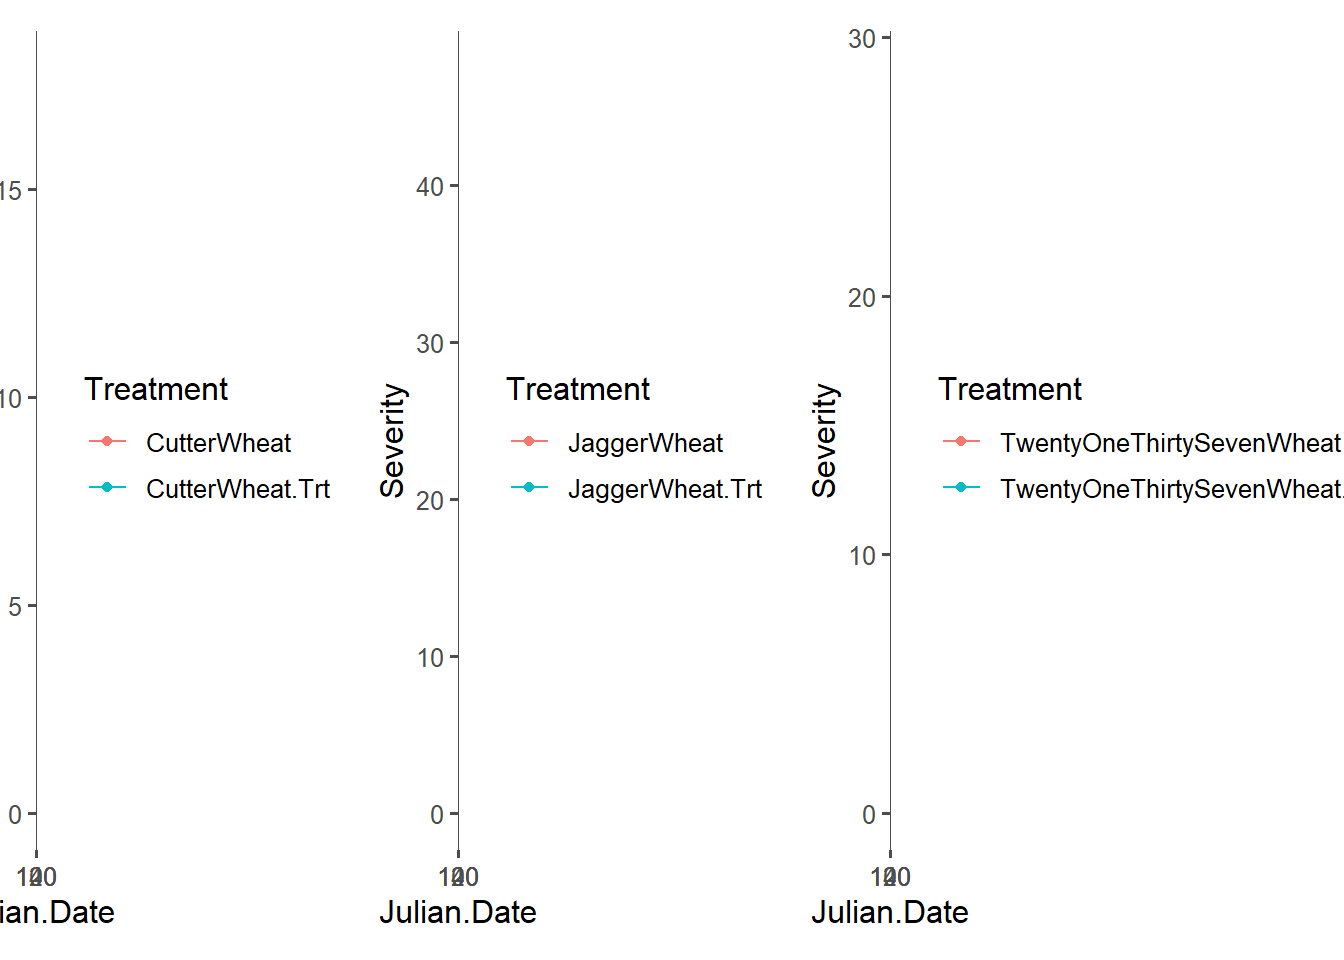
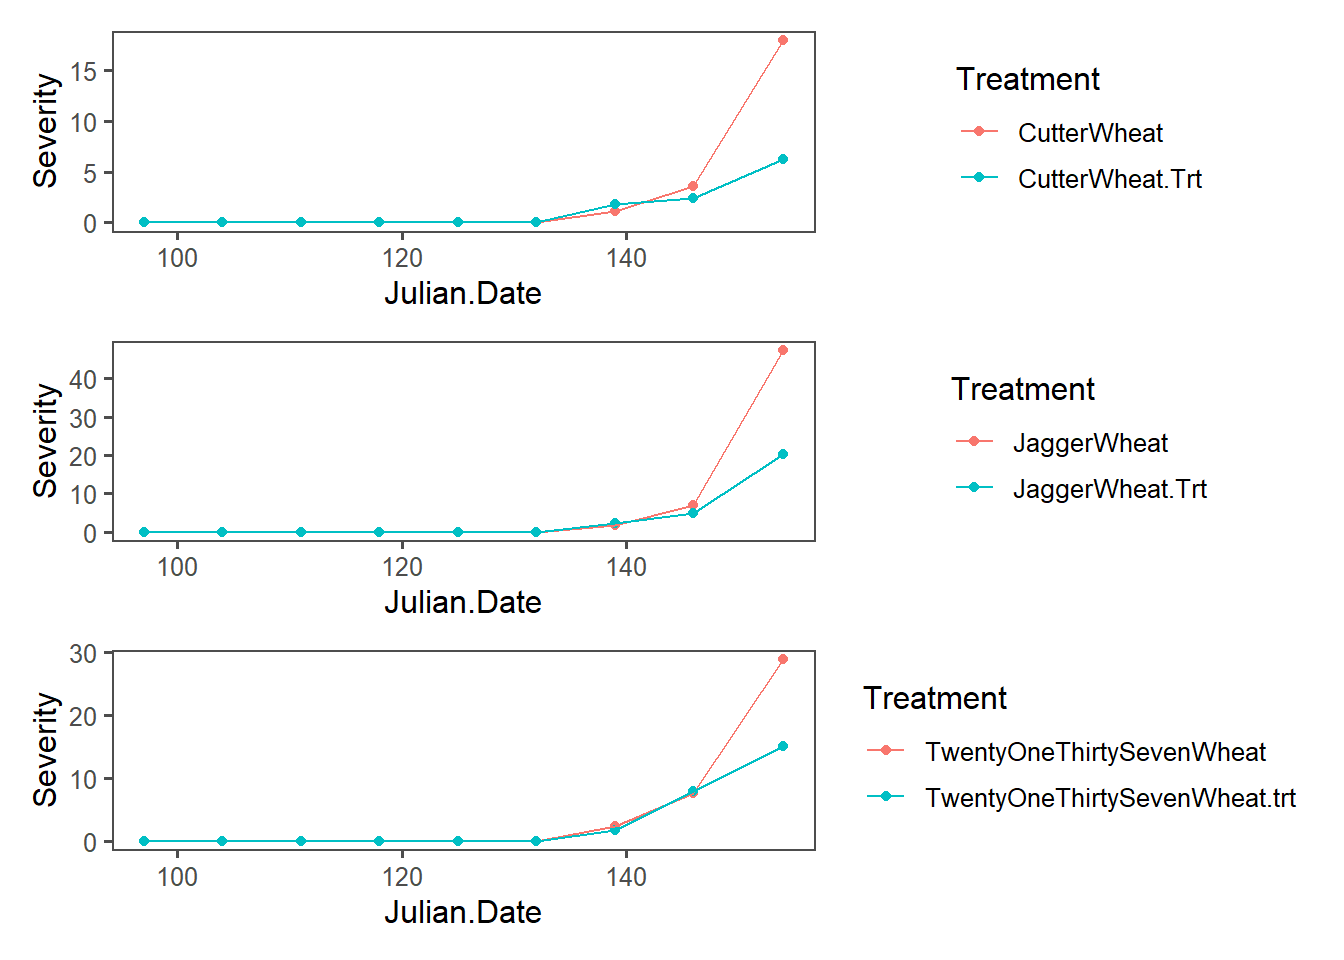
แก้ไข post

diff --git a/content/post/2021-11-19-AUDPC-in-Real-Data/index.html b/content/post/2021-11-19-AUDPC-in-Real-Data/index.html
@@ -89,7 +89,7 @@ Twenty_p &lt;- tidy_rust %&gt;%
   filter(str_detect(Treatment, &quot;Twenty&quot;)) %&gt;%
   ggplot(aes(x = Julian.Date, y = Severity, color = Treatment)) + geom_point() + geom_line()
 
-Cutter_p + Jagger_p + Twenty_p</code></pre>
+Cutter_p / Jagger_p / Twenty_p</code></pre>
 <p><img src="{{< blogdown/postref >}}index_files/figure-html/unnamed-chunk-6-1.png" width="672" />
 จะเห็นชัดเจนมากขึ้นว่า ถ้าฉีดพ้นแล้ว การพัฒนาของโรคพืชเมื่อเวลาผ่านไปลดลง</p>
 <pre class="r"><code>Var_p &lt;- tidy_rust %&gt;%
